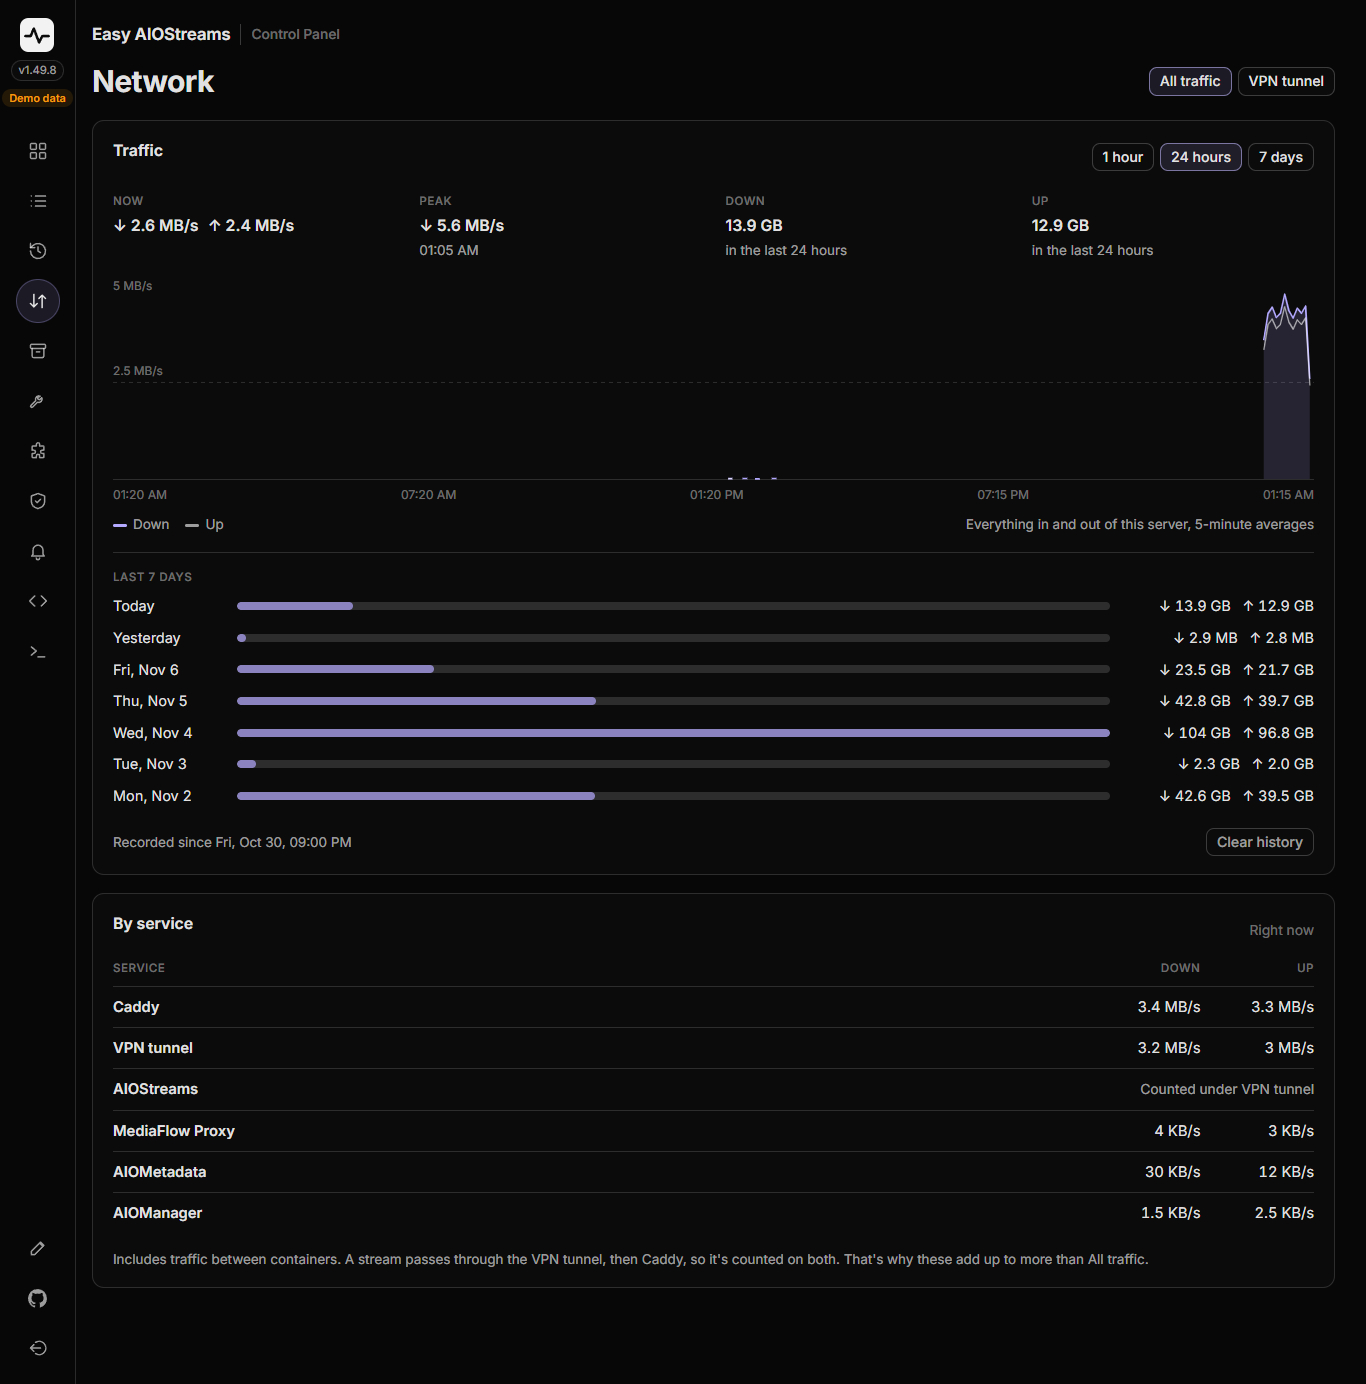
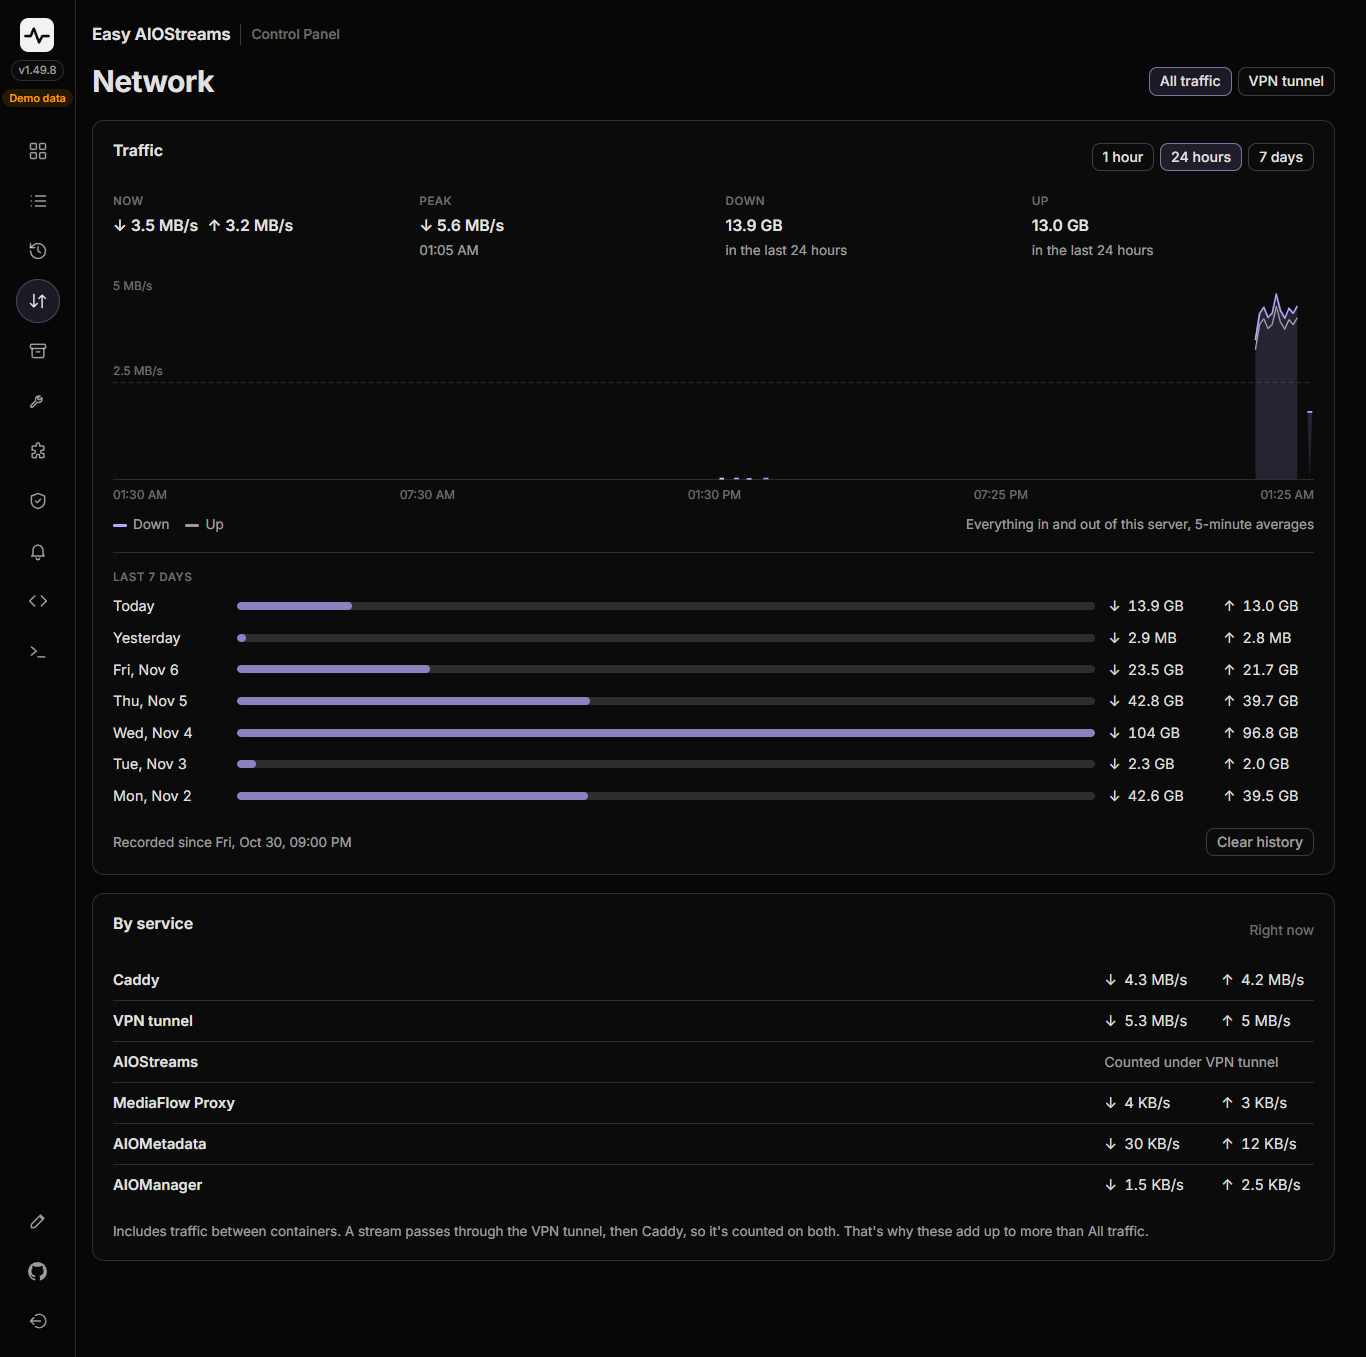
Network page: totals and speeds line up as on the Overview
Last 7 days and By service put each arrow in a fixed column with its
figure right after it, so arrows stay in one line down each list. By
service drops its Down/Up headings (the arrows say it) and on phones
puts each service's speeds under its name. Day names on phones size
with the text so they no longer wrap.

diff --git a/control-panel/web/css/app.css b/control-panel/web/css/app.css
@@ -403,23 +403,31 @@ h2.sec { margin: 0 0 12px; font-size: 1.1rem; font-weight: 650; letter-spacing: 
 .tr-key.down::before { background: var(--accent); } .tr-key.up::before { background: var(--up-line); }
 .tr-step { margin-left: auto; }
 .tr-days { margin-top: 18px; padding-top: 16px; border-top: 1px solid var(--line-soft); }
-.tr-day { display: grid; grid-template-columns: 110px minmax(0, 1fr) 190px; align-items: center; gap: 14px; padding: 5px 0; font-size: .9rem; }
+.tr-day { display: grid; grid-template-columns: 110px minmax(0, 1fr) max-content; align-items: center; gap: 14px; padding: 5px 0; font-size: .9rem; }
 .tr-bar { height: 8px; border-radius: 4px; background: var(--line-soft); overflow: hidden; }
 .tr-bar i { display: block; height: 100%; background: var(--accent); opacity: .7; border-radius: 4px; }
-.tr-day-tot { text-align: right; font-variant-numeric: tabular-nums; white-space: pre; }
+/* Down and up totals as on the Overview's Network list: arrows in one line down the days, each
+   figure right after its arrow, "No data" starting where the arrows do */
+.tr-day-tot { display: flex; gap: 24px; min-width: calc(12.6em + 24px); font-variant-numeric: tabular-nums; white-space: nowrap; }
 .tr-since { margin-right: auto; font-size: .84rem; }
 /* The Network page: the Traffic card, then each service's speed now */
 .ns-card { margin-top: 18px; }
 /* Down and Up as wide as their widest value (rows share them through subgrid) and never narrower
    than "15.8 MB/s", so they hold still and larger text can't push them past the card's edge */
-.ns-list { margin-top: 12px; display: grid; grid-template-columns: minmax(0, 1fr) max-content max-content; column-gap: 40px; }
+.ns-list { margin-top: 12px; display: grid; grid-template-columns: minmax(0, 1fr) max-content max-content; column-gap: 24px; }
 .ns-row { display: grid; grid-column: 1 / -1; grid-template-columns: subgrid; align-items: baseline; padding: 9px 0; border-top: 1px solid var(--line-soft); font-size: .92rem; }
-.ns-row .num { text-align: right; font-variant-numeric: tabular-nums; white-space: nowrap; min-width: 5em; }
-.ns-head { border-top: 0; padding-top: 0; font-size: .72rem; text-transform: uppercase; letter-spacing: .05em; font-weight: 500; color: var(--faint); }
-.ns-name { font-weight: 600; }
-.ns-shared { grid-column: 2 / -1; text-align: right; font-size: .86rem; }
+.ns-row:first-child { border-top: 0; }
+.ns-row .num { font-variant-numeric: tabular-nums; white-space: nowrap; }
+.ns-name { font-weight: 600; min-width: 0; }
+.ns-shared { grid-column: 2 / -1; font-size: .86rem; }
 .ns-note { font-size: .84rem; }
-@media (max-width: 720px) { .ns-list { column-gap: 16px; } }
+/* Phones: the name on a line of its own and the speeds under it, as on the Overview */
+@media (max-width: 720px) {
+  .ns-list { grid-template-columns: max-content max-content minmax(0, 1fr); }
+  .ns-row { row-gap: 3px; }
+  .ns-name { grid-column: 1 / -1; }
+  .ns-shared { grid-column: 1 / -1; }
+}
 /* This server's Network: down and up a line each, always, so the row doesn't change height as the speeds change */
 .stat-value .nowrap { display: block; white-space: nowrap; }
 @media (max-width: 720px) {
@@ -428,7 +436,8 @@ h2.sec { margin: 0 0 12px; font-size: 1.1rem; font-weight: 650; letter-spacing: 
   .tr-plot { height: 160px; }
   .tr-ticks span:nth-child(2n) { display: none; }
   .tr-step { margin-left: 0; flex-basis: 100%; }
-  .tr-day { grid-template-columns: 82px minmax(0, 1fr); gap: 4px 12px; }
+  .tr-day { grid-template-columns: 6em minmax(0, 1fr); gap: 4px 12px; }
+  .tr-day-name { white-space: nowrap; }
   .tr-day-tot { grid-column: 1 / -1; text-align: left; font-size: .84rem; color: var(--dim); }
 }
 .vpn-card-acts { display: flex; flex-wrap: wrap; justify-content: flex-end; gap: 8px; margin-top: 18px; padding-top: 16px; border-top: 1px solid var(--line-soft); }

diff --git a/control-panel/web/js/net.js b/control-panel/web/js/net.js
@@ -1,5 +1,5 @@
 import { $, h, clear } from "./util.js";
-import { trafficCard, updateNow, fmtRate } from "./traffic.js";
+import { trafficCard, updateNow, fmtRate, arrowed } from "./traffic.js";
 
 // The Network page: the server's traffic, or the VPN tunnel's once the VPN is set up, as the
 // same Traffic card the VPN page has; and each service's speed right now.
@@ -36,16 +36,16 @@ function services(box) {
   const measured = rows.some((s) => s.rx != null);
   box.append(h("div", { class: "panel vpn-card ns-card" },
     h("div", { class: "vpn-head" }, h("h3", { class: "tr-title", text: "By service" }), h("span", { class: "vpn-checked", text: "Right now" })),
+    // Laid out as the Overview's Network list: arrows in one line, each speed right after its arrow
     h("div", { class: "ns-list" },
-      h("div", { class: "ns-row ns-head" }, h("span", { text: "Service" }), h("span", { class: "num", text: "Down" }), h("span", { class: "num", text: "Up" })),
       ...rows.map((s) => {
         // On the VPN's network, Docker reports gluetun's counters for these too: one count, under the tunnel
         const shared = (s.key === "aiostreams" || s.via_vpn) && onVpn;
         return h("div", { class: "ns-row" },
           h("span", { class: "ns-name", text: s.name }),
           shared ? h("span", { class: "ns-shared dim", text: "Counted under VPN tunnel" })
-            : [h("span", { class: "num", text: s.rx != null ? fmtRate(s.rx) : measured ? "" : "Measuring…" }),
-              h("span", { class: "num", text: s.tx != null ? fmtRate(s.tx) : "" })]);
+            : s.rx == null ? h("span", { class: "ns-shared dim", text: measured ? "" : "Measuring…" })
+            : [arrowed("↓", fmtRate(s.rx)), arrowed("↑", fmtRate(s.tx))]);
       })),
     h("p", { class: "vpn-note dim ns-note", text: "Includes traffic between containers. A stream passes through "
       + (onVpn ? "the VPN tunnel" : "AIOStreams") + ", then Caddy, so it's counted on both. That's why these add up to more than All traffic." })));

diff --git a/control-panel/web/js/traffic.js b/control-panel/web/js/traffic.js
@@ -93,6 +93,10 @@ export function today(d) {
 }
 
 // Down and up speeds, each with its own unit: "↓ 387 KB/s ↑ 1.4 KB/s"
+// An arrow and a figure in a column of their own: the arrow at the column's left, the figure right
+// after it, the column wide enough that arrows stay in one line down a list (.nsv-speed)
+export const arrowed = (arrow, text) => h("span", { class: "num nsv-speed" },
+  h("span", { class: "nsv-arrow", text: arrow }), h("span", { text }));
 export const fmtPair = ([d, u]) => `↓ ${fmtRate(d)} ↑ ${fmtRate(u)}`;
 
 // The Overview's VPN line, in two halves that each stay whole: "Now ↓ 3.2 MB/s ↑ 48 KB/s", "Today ↓ 3.2 GB ↑ 48 MB"
@@ -239,8 +243,8 @@ function days(d) {
       return h("div", { class: "tr-day" },
         h("span", { class: "tr-day-name", text: dayName(r[0]) }),
         h("span", { class: "tr-bar" }, bar),
-        h("span", { class: "tr-day-tot" + (r[1] == null ? " dim" : ""),
-          text: r[1] == null ? "No data" : `↓ ${fmtBytes(r[1])}   ↑ ${fmtBytes(r[2])}` }));
+        r[1] == null ? h("span", { class: "tr-day-tot dim", text: "No data" })
+          : h("span", { class: "tr-day-tot" }, arrowed("↓", fmtBytes(r[1])), arrowed("↑", fmtBytes(r[2]))));
     }));
 }
 

diff --git a/CHANGELOG.md b/CHANGELOG.md
@@ -5,7 +5,7 @@ Notable changes to easy-aiostreams, newest first. Control panel versions are in 
 ## 8 November 2026
 
 - **New:** lines and separators stand out more in every theme, and Light's cards have a visible edge, so each part of a page is easier to tell apart. (Panel 1.49.8, [#152](https://github.com/alpinezx/easy-aiostreams/pull/152))
-- **New:** speeds from 10 KB/s up show whole numbers ("852 KB/s"). In This server's Network list the arrows keep to one line and every speed starts right after its arrow; on phones each service's speeds sit under its name. (Panel 1.49.8, [#152](https://github.com/alpinezx/easy-aiostreams/pull/152))
+- **New:** speeds from 10 KB/s up show whole numbers ("852 KB/s"). In This server's Network list and on the Network page (Last 7 days, By service) the arrows keep to one line and every figure starts right after its arrow; on phones each service's speeds sit under its name. (Panel 1.49.8, [#152](https://github.com/alpinezx/easy-aiostreams/pull/152))
 - **Fixed:** opening a folded part of the Overview, such as Network or HTTPS certificates, opens it downwards instead of pushing the page up. Speeds no longer run past the card's edge with larger text on phones, on the Overview or the Network page. (Panel 1.49.8, [#152](https://github.com/alpinezx/easy-aiostreams/pull/152))
 
 ## 7 November 2026
